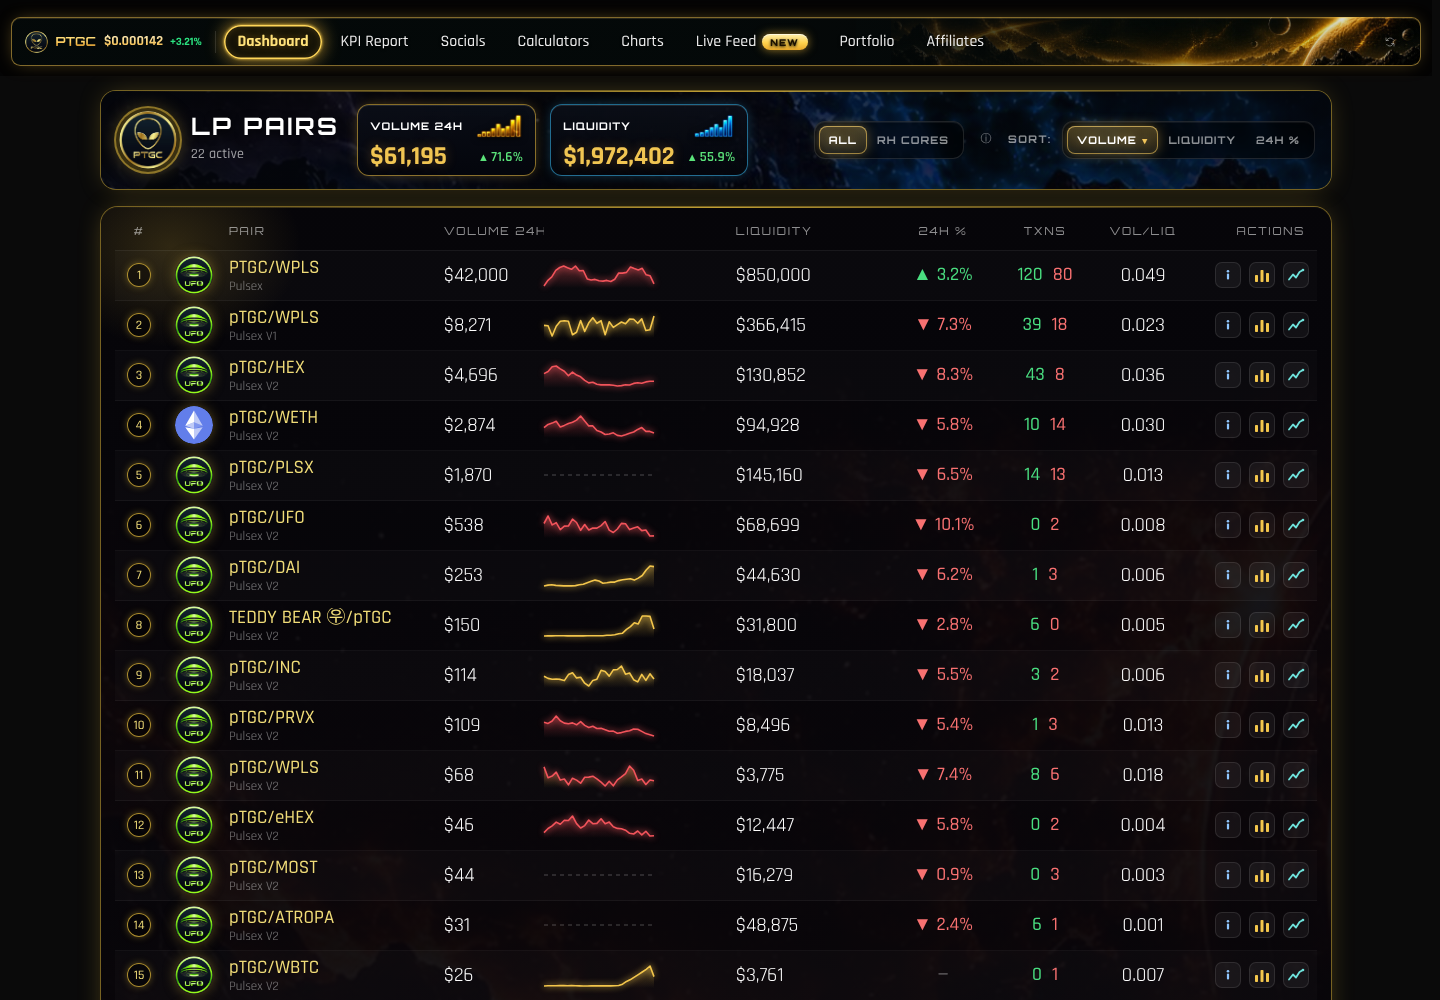
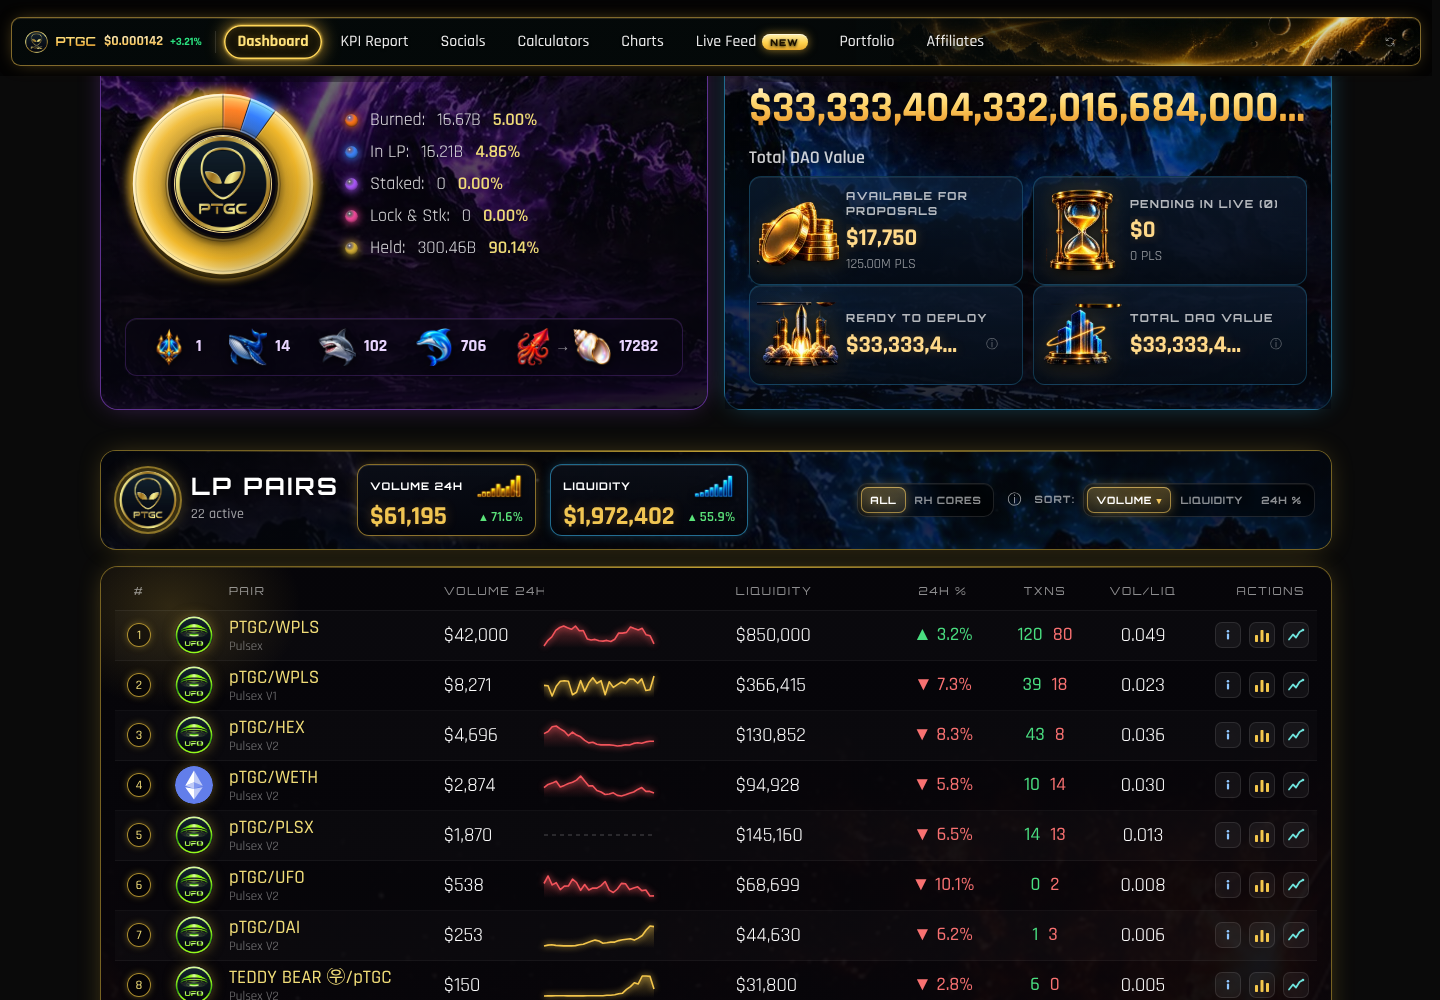
v2 LP Pairs header: smaller toggles, three-tier squeeze (compact one row to 1110px, then controls drop, tiles never stretched); handover

diff --git a/index.html b/index.html
@@ -692,17 +692,23 @@
     .p2-lphk .p2-lphc{grid-column:2;grid-row:2;font-size:14px;font-weight:600;color:#5BE37A;justify-self:end;line-height:1;white-space:nowrap;letter-spacing:.02em}
     .p2-lphk .p2-lphc.dn{color:#FF6B7A}
     .p2-lphk .p2-lphc i{font-style:normal;font-size:11px;margin-right:2px}
-    .p2-lphctl{margin-left:auto;display:flex;align-items:center;gap:10px}
+    .p2-lphctl{margin-left:auto;display:flex;align-items:center;gap:8px}
     .p2-lphi{margin-left:-4px}
-    .p2-lphs{font-size:10.5px;font-weight:700;letter-spacing:.14em;color:rgba(255,255,255,.55);text-transform:uppercase}
-    .p2-lphtg{--tg:240,196,90;display:flex;height:38px;align-items:center;padding:4px;border-radius:11px;background:rgba(0,0,0,.55);border:1px solid rgba(255,255,255,.12);backdrop-filter:blur(8px);-webkit-backdrop-filter:blur(8px);box-shadow:inset 0 1px 0 rgba(255,255,255,.06)}
+    .p2-lphs{font-size:10px;font-weight:700;letter-spacing:.12em;color:rgba(255,255,255,.55);text-transform:uppercase}
+    .p2-lphtg{--tg:240,196,90;display:flex;height:34px;align-items:center;padding:3px;border-radius:10px;background:rgba(0,0,0,.55);border:1px solid rgba(255,255,255,.12);backdrop-filter:blur(8px);-webkit-backdrop-filter:blur(8px);box-shadow:inset 0 1px 0 rgba(255,255,255,.06)}
     .p2-lphb[data-c="green"] .p2-lphtg{--tg:124,252,0}
-    .p2-lphtg>button{font-family:'Orbitron',monospace;font-size:10.5px;font-weight:700;letter-spacing:.1em;text-transform:uppercase;line-height:1;height:100%;display:flex;align-items:center;gap:5px;padding:0 10px;border-radius:8px;color:rgba(255,255,255,.55);white-space:nowrap;background:none;transition:color .2s}
+    .p2-lphtg>button{font-family:'Orbitron',monospace;font-size:10px;font-weight:700;letter-spacing:.08em;text-transform:uppercase;line-height:1;height:100%;display:flex;align-items:center;gap:4px;padding:0 9px;border-radius:7px;color:rgba(255,255,255,.55);white-space:nowrap;background:none;transition:color .2s}
     .p2-lphtg>button:hover{color:#fff}
     .p2-lphtg>button[aria-pressed="true"]{color:#fff;background:linear-gradient(180deg,rgba(var(--tg),.32),rgba(var(--tg),.14));box-shadow:inset 0 0 0 1px rgba(var(--tg),.6),inset 0 1px 0 rgba(255,255,255,.18),0 0 14px -2px rgba(var(--tg),.55);text-shadow:0 0 8px rgba(var(--tg),.55)}
     .p2-lphtg>button b{font-size:9px;color:rgb(var(--tg));font-weight:700}
-    @media(max-width:1279.98px){.p2-lphb{flex-wrap:wrap;row-gap:12px;padding:12px 14px}.p2-lphctl{margin-left:0;width:100%;justify-content:flex-end}.p2-lphk{flex:1;min-width:0}}   /* under 1280 the controls take a second row; the two tiles share the first with the title */
-    @media(max-width:899.98px){.p2-lphbh{font-size:20px}.p2-lphbt img{width:48px;height:48px}.p2-lphk .v{font-size:22px}}
+    /* the squeeze (Shaka, 2026-10-01: "a better move when it gets narrower"): ONE row as long as it can — the toggles are
+       small to start with, and under 1280 everything steps down a size (compact row, holds to ~1110) — and only under 1110
+       the controls drop to a second row with the tiles at their natural width (never stretched across the band) */
+    @media(max-width:1279.98px){.p2-lphb{gap:10px;padding:11px 14px 11px 15px;min-height:88px}.p2-lphbt{gap:11px;margin-right:0}.p2-lphbt img{width:50px;height:50px}.p2-lphbh{font-size:20px;letter-spacing:.08em}.p2-lphbn{font-size:13px;margin-top:5px}
+      .p2-lphk{height:64px;padding:8px 10px;column-gap:10px;row-gap:5px}.p2-lphk .l{font-size:9.5px}.p2-lphk .v{font-size:22px}.p2-lphk img{height:20px}.p2-lphk .p2-lphc{font-size:13px}
+      .p2-lphtg{height:32px}.p2-lphtg>button{font-size:9.5px;padding:0 8px;letter-spacing:.06em}.p2-lphctl{gap:7px}.p2-lphs{font-size:9.5px;letter-spacing:.1em}.p2-lphi{margin-left:-3px}}
+    @media(max-width:1109.98px){.p2-lphb{flex-wrap:wrap;row-gap:10px}.p2-lphctl{margin-left:0;width:100%;justify-content:flex-end}}
+    @media(max-width:759.98px){.p2-lphbt{width:100%}.p2-lphk{flex:1;min-width:0;max-width:300px}.p2-lphbh{font-size:18px}}   /* tablets in portrait: title row, then the two tiles, then the controls */
     .p2-lp .p2-lplogo{width:50px!important;height:50px!important;box-shadow:0 0 0 3px rgba(0,0,0,.6),0 0 0 4.5px rgba(var(--lpc),.55),0 0 16px 2px rgba(var(--lpc),.35)}
     /* the panel */
     .p2-lpwrap{position:relative}

diff --git a/handover/HANDOVER.md b/handover/HANDOVER.md
@@ -24,7 +24,7 @@ divider | name / quiet % / figure, no bars, no % at the foot, his new three-diam
 (`logos/panels/vg-diamonds3-v2.webp`). Mock-up A/B first (`design/dashboard-panels/mock-vg-tiles-v1.html`; "the bottom
 one, but not that loud — no pill"), then built as a CSS grid over the classic tile markup (`.p2-vgt`, v2 only, classic
 byte-identical); part two after his live look: names 12.5 px (measured — 6 px of slack on "BUY & BURN", never a second
-line at ≥ 1280), figures 31 px through `H2Val` (shrink, never overrun); UFO's burn tiles stack the 36 px coin on the flame like the LP pair discs. **Then the LP Pairs header** (round 17, his mock-up): one framed band — logo in a ring, LP PAIRS, Volume 24h / Liquidity glass tiles with his bar icons and a change line (volume = the KPI tile's "vs 7d avg", liquidity = vs the lv-snapshot 24 h ago; All only), All / RH Cores + SORT as the panels' glass toggles (Ratio dropped, his mock) — `LpHeaderV2`, a `{hdrV2?…:…}` fork over the classic desktop header (classic DOM hash equal). Harness 1440 / 1280 / 1100 / 1024 / 390, USD + TOK, PTGC + UFO. **Not pushed yet at the time of writing —
+line at ≥ 1280), figures 31 px through `H2Val` (shrink, never overrun); UFO's burn tiles stack the 36 px coin on the flame like the LP pair discs. **Then the LP Pairs header** (round 17, his mock-up): one framed band — logo in a ring, LP PAIRS, Volume 24h / Liquidity glass tiles with his bar icons and a change line (volume = the KPI tile's "vs 7d avg", liquidity = vs the lv-snapshot 24 h ago; All only), All / RH Cores + SORT as the panels' glass toggles (Ratio dropped, his mock) — `LpHeaderV2`, a `{hdrV2?…:…}` fork over the classic desktop header (classic DOM hash equal); squeeze in three tiers (one row to 1110 px, then the controls drop). Harness 1440 / 1280 / 1100 / 1024 / 390, USD + TOK, PTGC + UFO. **Not pushed yet at the time of writing —
 Shaka's live look is owed**, then the rest of the pre-flip list (-5 below), then the sibling pages' headers (-6, same push
 as the flip). Round 16 in `sessions/2026-10-01.md`.
 

diff --git a/handover/sessions/2026-10-01.md b/handover/sessions/2026-10-01.md
@@ -376,3 +376,15 @@ unconditional) and `p2-lplogo` is still the phone header's. Classic LP section D
 - Harness: `probes/lp-head.js` (band size, overflow, the controls' right edge, the text, tile overflow) at
   1440 / 1280 / 1024 / 768 / 640, PTGC + UFO, RH Cores click (lines gone, count 3), Liquidity sort click (▼ moves).
   Renders `renders/lp-header-built-1440.png`. Owed: the live look (the % lines with real data, PTGC + UFO, RH Cores).
+
+### Round 17, part two — the squeeze (Shaka's live look at ~1265 px)
+
+At a window just under 1280 the controls had dropped to a second row and the two tiles stretched across the band —
+"a better move when it gets squeezed; make the sliders a little smaller so we have more room before the look changes."
+Three tiers now (`.p2-lphb` media rules), measured with `probes/lp-head.js` at 1440 / 1280 / 1265 / 1200 / 1120 / 1110 /
+1024 / 900 / 768 / 700 / 640 (overflow 0 at every width):
+- ≥ 1280: one row; the toggles are smaller to start with (34 px, 10 px type, 9 px pads — 47 px of slack at 1232 now).
+- 1110–1279: still ONE row, everything a size down (logo 50, LP PAIRS 20 px, tiles 64 px tall with 22 px figures, toggles
+  32 px / 9.5 px) — band 88 px. Holds down to a 1054 px band.
+- < 1110: the controls take a second row, right-aligned; the tiles keep their natural width (never `flex:1` across the
+  band). < 760 (portrait tablet): title row, then the two tiles sharing a row (max 300 px each), then the controls.
